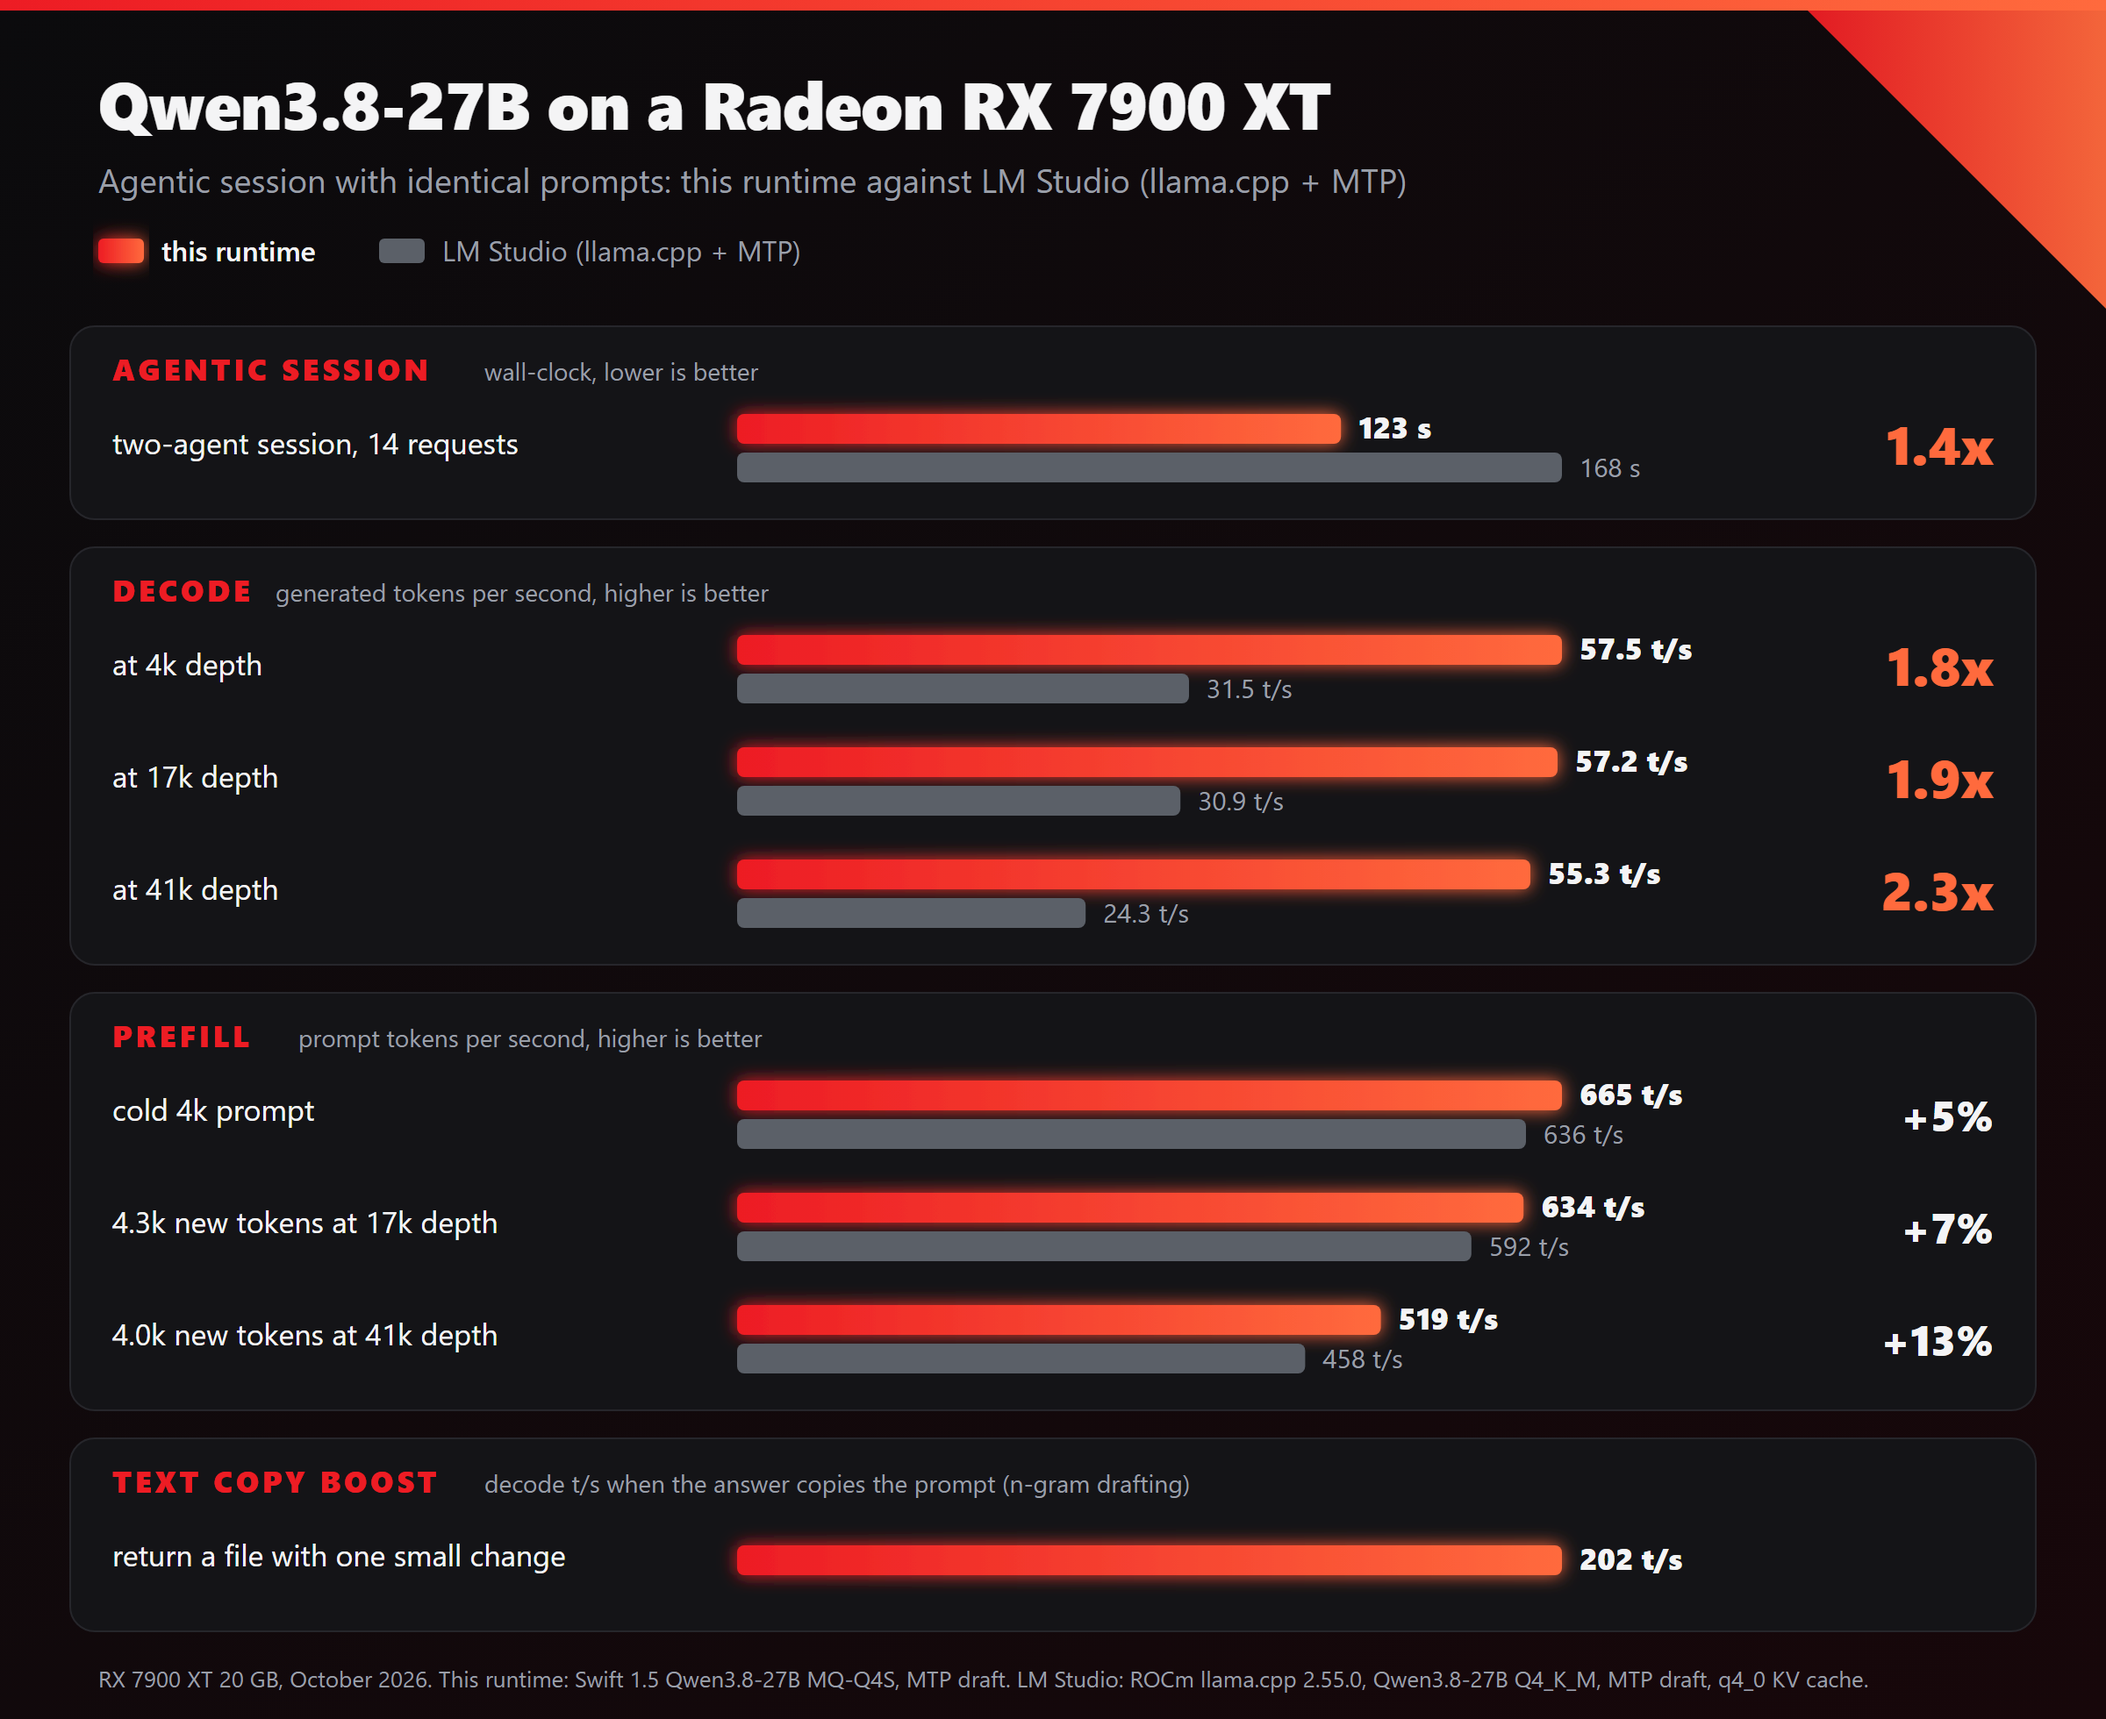
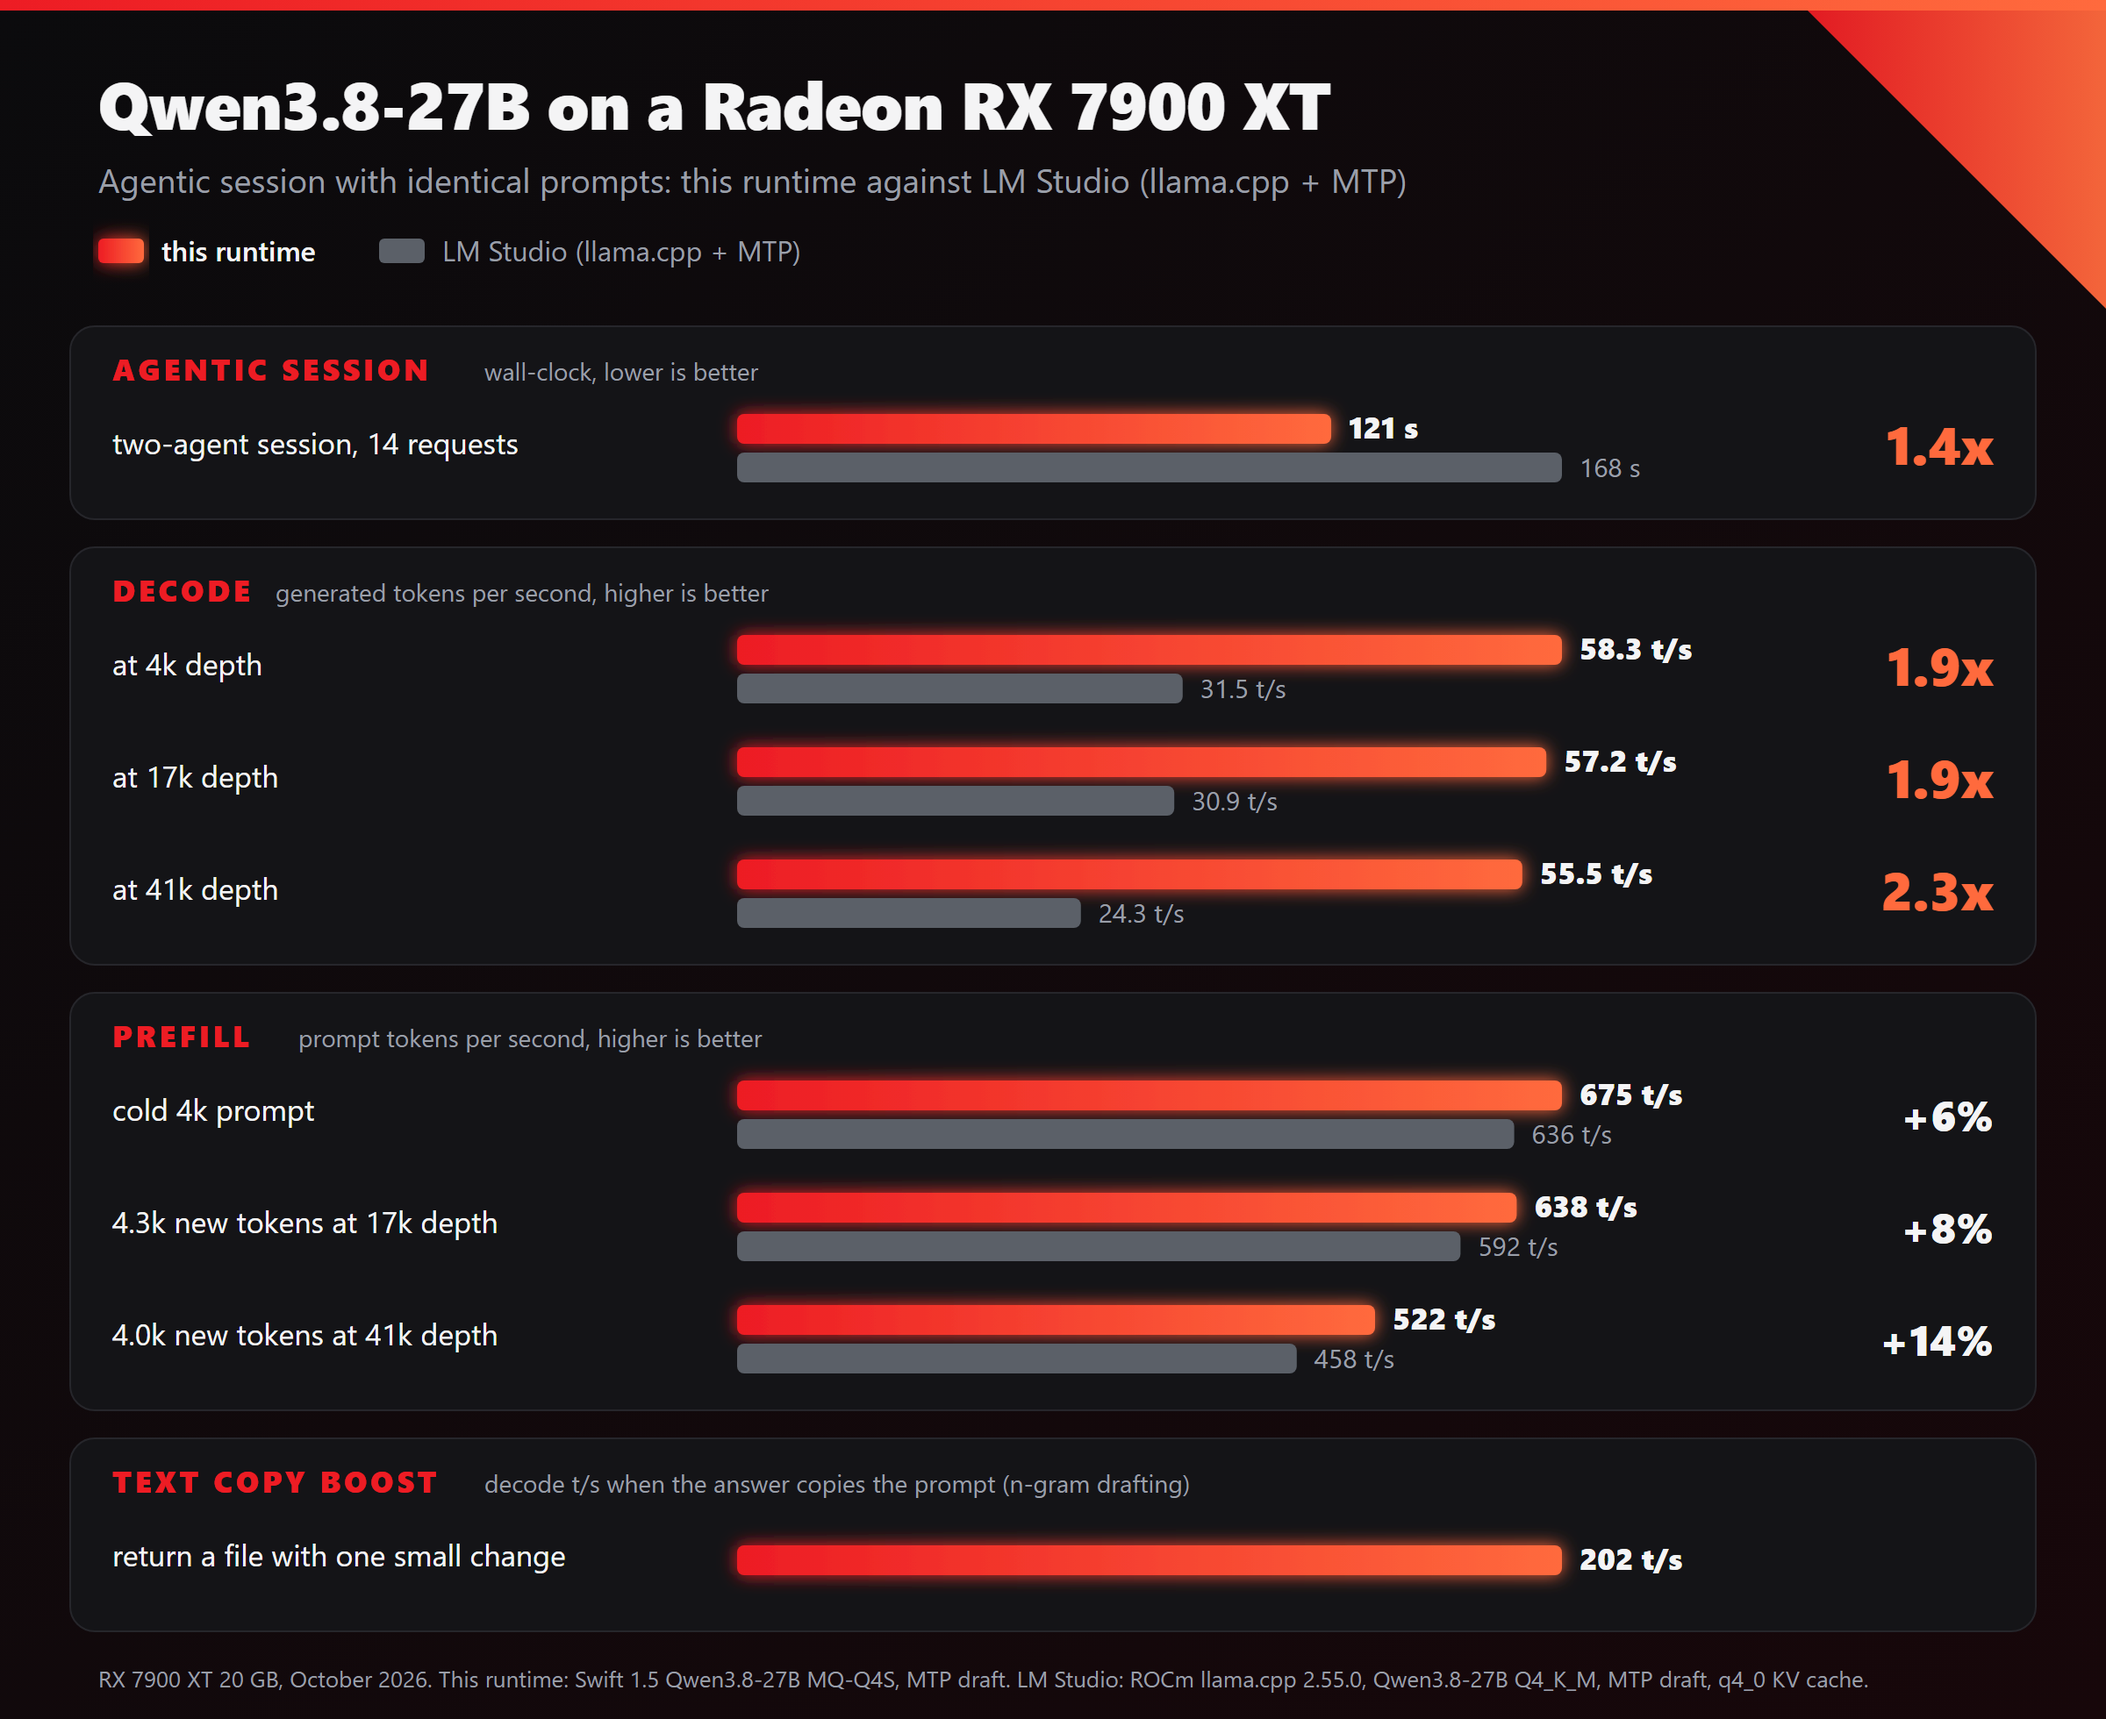
README, chart: session numbers with the lean MTP draft reserve
Scripted two-agent session on live production, build of main 6ab956c6a
(no spill into shared memory any more), with the runs on 1a2e6e928:
121 s (was 123), prefill 675 / 638 / 522 t/s at 4k / 17k / 41k (was
665 / 634 / 519), decode 58.3 / 57.2 / 55.5 t/s (was 57.5 / 57.2 / 55.3).

diff --git a/README.md b/README.md
@@ -10,7 +10,7 @@ GPU, ideal for Hermes.
 ## Highlights
 
 - **Quicker agentic loops than LM Studio on the same card.** A two-agent session takes
-  123 s here, 168 s on stock llama.cpp with its MTP draft and 17.7 min without
+  121 s here, 168 s on stock llama.cpp with its MTP draft and 17.7 min without
   it; decode is about twice as fast. [Numbers](#speed)
 - **Faster prefill AND decode.** The model's own MTP head drafts four tokens ahead: 50 t/s
   on prose and 73 t/s on code, against 35 t/s without it. Text copy boost: code
@@ -49,13 +49,13 @@ identical prompts (14 requests; an orchestrator grows from 4k to 41k tokens, a
 
 | | stock llama.cpp | stock + MTP draft | this runtime |
 |---|---:|---:|---:|
-| **the session, wall-clock** | **1,065 s** | **168 s** | **123 s** |
-| prefill t/s, cold 4k prompt | 174 | 636 | 665 |
-| prefill t/s, 4.3k new tokens at 17k depth | 67 | 592 | 634 |
-| prefill t/s, 4.0k new tokens at 41k depth | 32 | 458 | 519 |
-| decode t/s at 4k depth | 32.3 | 31.5 | 57.5 |
+| **the session, wall-clock** | **1,065 s** | **168 s** | **121 s** |
+| prefill t/s, cold 4k prompt | 174 | 636 | 675 |
+| prefill t/s, 4.3k new tokens at 17k depth | 67 | 592 | 638 |
+| prefill t/s, 4.0k new tokens at 41k depth | 32 | 458 | 522 |
+| decode t/s at 4k depth | 32.3 | 31.5 | 58.3 |
 | decode t/s at 17k depth | 17.8 | 30.9 | 57.2 |
-| decode t/s at 41k depth | 10.6 | 24.3 | 55.3 |
+| decode t/s at 41k depth | 10.6 | 24.3 | 55.5 |
 | decode t/s, text copy boost: code edit that copies the prompt | | | 202 |
 
 <sub>October 2026. Stock is LM Studio's ROCm llama.cpp runtime 2.55.0 with
